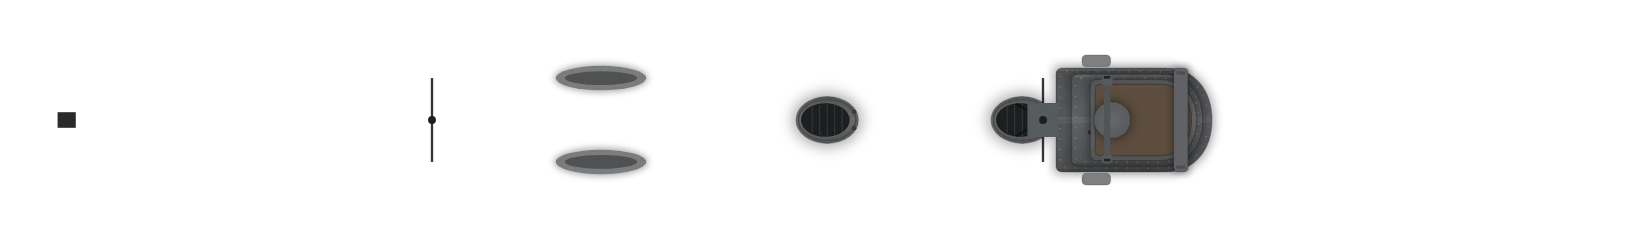
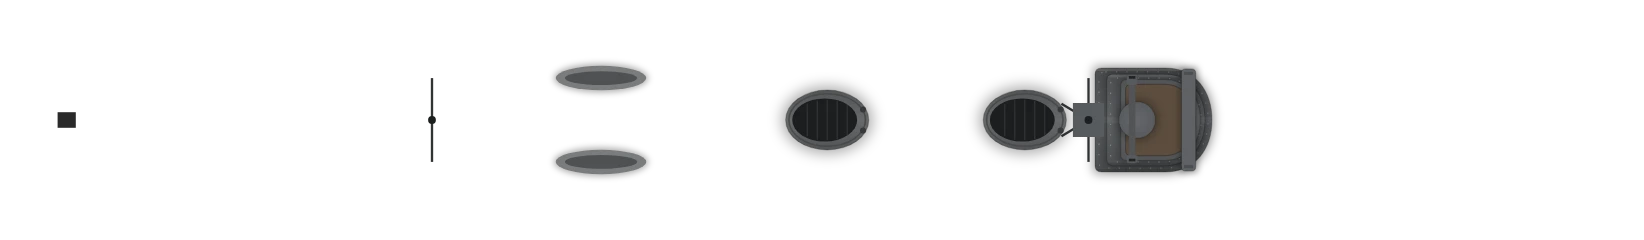
Mount shadows stay joined to their guns (cast no further than half the mount's size); Fletcher's mount 3 and the Narvik's forward after gun face forward, back to back with the raised gun, a director platform between on the Fletcher; the Fubuki's big funnels clear of her bridge and foremast
aux_test, review_test, run_presets, orders_test pass.

Claude-Session: https://claude.ai/code/session_0112riLGm4nSjrgsGiYL5DUG

Changed region(s): [[0.5894, 0.2333, 0.7445, 0.7875], [0.4653, 0.35, 0.5584, 0.6417]]

diff --git a/index.html b/index.html
@@ -291,19 +291,19 @@ const DESIGN_LIST = [
     p: { bow: .34, run: .2, stern: 'c', sup: [[23.5, 10.9, 7.5, 3], [-27, 6, 4.5, 1]], fun: [[2, 3.2, 2]], mast: [[16, 'p']], boats: [[8, 1]] },
     slots: [sl('M', 39, 0, FWD, 'g120t'), sl('M', 32, 0, FWD, 'g120t'), sl('M', -39, 0, AFT, 'g120t'), sl('T', -8, 0, BEAM, 'tor'), sl('T', -19, 0, BEAM, 'tor'), sl('A', -29, 0, AFT, 'aa2p'), ...pair('A', 13, 4.4, 'aa20')] },
   { id: 'dd_fletcher', cls: 'dd', yard: 'tidewater', dn: 'Halberd', model: 'Fletcher-class destroyer', year: 1942, era: 1, L: 114.7, B: 12, t: 2050, kn: 36.5, td: 640, armor: 19, crew: 329, price: 20000,
-    p: { outline: [[57.35, 0.15], [56.27, 0.15], [56.13, 0.25], [55.86, 0.25], [55.39, 0.6], [55.18, 0.6], [54.71, 0.88], [54.44, 0.88], [54.3, 1.33], [54.17, 1.38], [54.1, 1.08], [53.76, 1.15], [53.69, 1.56], [53.15, 1.73], [52.13, 1.72], [51.52, 1.91], [51.46, 2.15], [51.18, 2.21], [51.12, 2.05], [49.83, 2.46], [48.34, 2.73], [42.17, 3.54], [31.4, 4.56], [23.27, 5.13], [15.01, 5.51], [-1.32, 5.87], [-12.91, 6.0], [-23.75, 5.81], [-36.75, 5.24], [-46.71, 4.93], [-51.39, 4.62], [-51.86, 4.39], [-53.83, 4.13], [-54.03, 3.99], [-54.71, 3.85], [-55.59, 3.3], [-55.93, 3.36], [-56.0, 3.23], [-56.47, 3.29], [-56.81, 3.14], [-56.88, 0.15], [-57.35, 0.15]], sup: [[20.5, 9.5, 8, 3], [-27, 17, 7, 1]], fun: [[9, 2.4, 1.8], [-5, 2.4, 1.8]], mast: [[16, 'p']], boats: [[12, 1]] },
-    slots: [sl('M', 36.2, 0, FWD, 'g127s'), sl('M', 28.8, 0, FWD, 'g127s'), sl('M', -24.7, 0, AFT, 'g127s'), sl('M', -30.8, 0, AFT, 'g127s'), sl('M', -38.2, 0, AFT, 'g127s'), sl('T', 2.6, 0, BEAM, 'tor'), sl('T', -10.5, 0, BEAM, 'tor'), ...pair('A', -17, 4.6, 'aa40'), ...pair('A', 23, 4.2, 'aa20')] },
+    p: { outline: [[57.35, 0.15], [56.27, 0.15], [56.13, 0.25], [55.86, 0.25], [55.39, 0.6], [55.18, 0.6], [54.71, 0.88], [54.44, 0.88], [54.3, 1.33], [54.17, 1.38], [54.1, 1.08], [53.76, 1.15], [53.69, 1.56], [53.15, 1.73], [52.13, 1.72], [51.52, 1.91], [51.46, 2.15], [51.18, 2.21], [51.12, 2.05], [49.83, 2.46], [48.34, 2.73], [42.17, 3.54], [31.4, 4.56], [23.27, 5.13], [15.01, 5.51], [-1.32, 5.87], [-12.91, 6.0], [-23.75, 5.81], [-36.75, 5.24], [-46.71, 4.93], [-51.39, 4.62], [-51.86, 4.39], [-53.83, 4.13], [-54.03, 3.99], [-54.71, 3.85], [-55.59, 3.3], [-55.93, 3.36], [-56.0, 3.23], [-56.47, 3.29], [-56.81, 3.14], [-56.88, 0.15], [-57.35, 0.15]], sup: [[20.5, 9.5, 8, 3], [-27, 17, 7, 1], [-26, 4, 4.5, 2]], fun: [[9, 2.4, 1.8], [-5, 2.4, 1.8]], mast: [[16, 'p']], boats: [[12, 1]] },
+    slots: [sl('M', 36.2, 0, FWD, 'g127s'), sl('M', 28.8, 0, FWD, 'g127s'), sl('M', -21, 0, FWD, 'g127s'), sl('M', -31, 0, AFT, 'g127s'), sl('M', -38.2, 0, AFT, 'g127s'), sl('T', 2.6, 0, BEAM, 'tor'), sl('T', -10.5, 0, BEAM, 'tor'), ...pair('A', -16, 5.3, 'aa40'), ...pair('A', 23, 4.2, 'aa20')] },
   { id: 'dd_gearing', cls: 'dd', yard: 'tidewater', dn: 'Partisan', model: 'Gearing-class destroyer', year: 1945, era: 1, L: 119, B: 12.5, t: 2616, kn: 36.8, td: 700, armor: 19, crew: 336, price: 26000,
     p: { bow: .33, run: .2, stern: 'c', sup: [[25.5, 11.9, 8.5, 3], [-30, 8, 5, 1]], fun: [[11, 2.6, 1.9], [-4, 2.6, 1.9]], mast: [[19, 't']], boats: [[3, 1]] },
     slots: [sl('M', 43, 0, FWD, 'g127'), sl('M', 35, 0, FWD, 'g127'), sl('M', -45, 0, AFT, 'g127'), sl('T', 4, 0, BEAM, 'tor'), sl('T', -14, 0, BEAM, 'tor'), ...pair('A', 18, 5.2, 'aa40'), ...pair('A', -24, 5, 'aa40')] },
   { id: 'dd_narvik', cls: 'dd', yard: 'ostsee', dn: 'Sturmvogel', model: 'Type 1936A (Narvik) destroyer', year: 1940, era: 1, L: 127, B: 12, t: 2600, kn: 36, td: 760, armor: 15, crew: 330, price: 24000,
-    p: { outline: [[63.5, 0.62], [62.28, 1.05], [58.64, 2.01], [56.82, 2.6], [53.17, 3.35], [51.75, 3.73], [47.5, 4.33], [46.08, 4.65], [42.23, 5.12], [40.81, 5.11], [39.4, 5.3], [38.38, 5.29], [34.94, 5.61], [30.28, 5.64], [28.86, 5.82], [22.79, 5.79], [21.37, 5.87], [-3.75, 6.0], [-5.17, 5.81], [-12, 6.0], [-40, 6.0], [-52, 5.4], [-58, 4.4], [-61.5, 3.0], [-63.5, 1.2]], sup: [[24, 11, 9, 3], [-41, 9, 6, 1]], fun: [[12.3, 2.6, 2], [-9.4, 2.6, 2]], mast: [[18, 'p']], boats: [[5, 1]] },
-    slots: [sl('M', 37.6, 0, FWD, 'g150t'), sl('M', -35.7, 0, AFT, 'g150s'), sl('M', -45.5, 0, AFT, 'g150s'), sl('M', -55.9, 0, AFT, 'g150s'), sl('T', 1.2, 0, BEAM, 'tor'), sl('T', -24, 0, BEAM, 'tor'), ...pair('A', -16, 4.4, 'aa37'), ...pair('A', 31, 4.6, 'aa20q')] },
+    p: { outline: [[63.5, 0.62], [62.28, 1.05], [58.64, 2.01], [56.82, 2.6], [53.17, 3.35], [51.75, 3.73], [47.5, 4.33], [46.08, 4.65], [42.23, 5.12], [40.81, 5.11], [39.4, 5.3], [38.38, 5.29], [34.94, 5.61], [30.28, 5.64], [28.86, 5.82], [22.79, 5.79], [21.37, 5.87], [-3.75, 6.0], [-5.17, 5.81], [-12, 6.0], [-40, 6.0], [-52, 5.4], [-58, 4.4], [-61.5, 3.0], [-63.5, 1.2]], sup: [[24, 11, 9, 3]], house: [[-45, 9, 6]], fun: [[12.3, 2.6, 2], [-9.4, 2.6, 2]], mast: [[18, 'p']], boats: [[5, 1]] },
+    slots: [sl('M', 37.6, 0, FWD, 'g150t'), sl('M', -35.7, 0, FWD, 'g150s'), sl('M', -46, 0, AFT, 'g150s'), sl('M', -56.5, 0, AFT, 'g150s'), sl('T', 1.2, 0, BEAM, 'tor'), sl('T', -24, 0, BEAM, 'tor'), ...pair('A', -16, 4.4, 'aa37'), ...pair('A', 31, 4.6, 'aa20q')] },
   { id: 'dd_kagero', cls: 'dd', yard: 'seto', dn: 'Kaien', model: 'Kagero-class destroyer', year: 1939, era: 1, L: 118.5, B: 10.8, t: 2033, kn: 35, td: 650, armor: 12, crew: 240, price: 22000,
     p: { outline: [[59.25, 0.34], [58.66, 0.8], [58.0, 1.12], [56.88, 1.5], [55.43, 1.89], [52.6, 2.46], [46.29, 3.42], [38.39, 4.19], [30.1, 4.74], [21.09, 5.1], [10.43, 5.31], [-3.45, 5.4], [-15.56, 5.35], [-26.81, 5.13], [-39.64, 4.7], [-47.14, 4.25], [-51.95, 3.67], [-55.37, 2.99], [-56.88, 2.47], [-58.0, 1.89], [-58.66, 1.37], [-59.25, 0.54]], sup: [[26, 7.5, 7, 3]], fun: [[13.8, 2.4, 1.8], [-2.3, 2.4, 1.8]], mast: [[20, 't'], [-21, 'p']], boats: [[28, 1]], deck: 'lino' },
     slots: [sl('M', 40.8, 0, FWD, 'g127'), sl('M', -27.6, 0, AFT, 'g127'), sl('M', -36.2, 0, AFT, 'g127'), sl('T', 5.3, 0, BEAM, 'tor93'), sl('T', -13.2, 0, BEAM, 'tor93'), ...pair('A', 0.7, 3.2, 'aa25'), ...pair('A', -20, 3.5, 'aa25')] },
   { id: 'dd_fubuki', cls: 'dd', yard: 'seto', dn: 'Fuyuzora', model: 'Fubuki-class destroyer', year: 1928, era: 1, L: 118.4, B: 10.4, t: 1750, kn: 38, td: 640, armor: 0, crew: 219, price: 19000,
-    p: { outline: [[59.2, 0.47], [56.76, 1.16], [53.51, 1.81], [52.37, 2.15], [48.14, 3.05], [45.05, 3.42], [41.15, 4.1], [33.99, 4.9], [32.85, 4.9], [31.71, 5.05], [14.31, 5.07], [13.17, 5.2], [8.62, 5.19], [7.48, 5.03], [4.55, 5.03], [3.42, 5.18], [-2.28, 5.18], [-3.42, 5.06], [-4.88, 5.17], [-13.82, 4.96], [-18.7, 4.96], [-19.84, 4.81], [-22.93, 4.8], [-24.07, 4.65], [-27.49, 4.66], [-28.62, 4.5], [-32.04, 4.5], [-33.18, 4.34], [-35.29, 4.34], [-36.43, 4.19], [-38.22, 4.19], [-39.36, 4.02], [-41.15, 4.02], [-42.29, 3.87], [-43.42, 3.87], [-46.68, 3.55], [-53.18, 2.76], [-53.67, 2.78], [-54.65, 3.12], [-55.78, 2.32], [-57.9, 1.92], [-59.2, 1.18]], sup: [[24, 12, 8, 3]], fun: [[15.4, 2.4, 1.8], [0.4, 2.4, 1.8]], mast: [[17, 't'], [-30, 'p']], boats: [[-17, 1]], deck: 'lino' },
+    p: { outline: [[59.2, 0.47], [56.76, 1.16], [53.51, 1.81], [52.37, 2.15], [48.14, 3.05], [45.05, 3.42], [41.15, 4.1], [33.99, 4.9], [32.85, 4.9], [31.71, 5.05], [14.31, 5.07], [13.17, 5.2], [8.62, 5.19], [7.48, 5.03], [4.55, 5.03], [3.42, 5.18], [-2.28, 5.18], [-3.42, 5.06], [-4.88, 5.17], [-13.82, 4.96], [-18.7, 4.96], [-19.84, 4.81], [-22.93, 4.8], [-24.07, 4.65], [-27.49, 4.66], [-28.62, 4.5], [-32.04, 4.5], [-33.18, 4.34], [-35.29, 4.34], [-36.43, 4.19], [-38.22, 4.19], [-39.36, 4.02], [-41.15, 4.02], [-42.29, 3.87], [-43.42, 3.87], [-46.68, 3.55], [-53.18, 2.76], [-53.67, 2.78], [-54.65, 3.12], [-55.78, 2.32], [-57.9, 1.92], [-59.2, 1.18]], sup: [[25.5, 9, 8, 3]], fun: [[15.6, 3.2, 2.3], [0.4, 3.2, 2.3]], mast: [[20.5, 't'], [-30, 'p']], boats: [[-17, 1]], deck: 'lino' },
     slots: [sl('M', 39.4, 0, FWD, 'g127'), sl('M', -35.4, 0, AFT, 'g127'), sl('M', -44.3, 0, AFT, 'g127'), sl('T', 9.8, 0, BEAM, 'tor'), sl('T', -10.2, 0, BEAM, 'tor'), sl('T', -24.8, 0, BEAM, 'tor'), ...pair('A', -4, 3.4, 'aa25')] },
   { id: 'dd_soldati', cls: 'dd', yard: 'tirreno', dn: 'Vespro', model: 'Soldati-class destroyer', year: 1938, era: 1, L: 106.7, B: 10.15, t: 1830, kn: 38, td: 600, armor: 10, crew: 206, price: 18000,
     p: { bow: .36, run: .2, stern: 'c', sup: [[23, 11, 7, 3], [-28, 6, 4.5, 1]], fun: [[6, 3.4, 2.1]], mast: [[15, 'p']], boats: [[-4, 1]] },

diff --git a/src/game.html b/src/game.html
@@ -288,19 +288,19 @@ const DESIGN_LIST = [
     p: { bow: .34, run: .2, stern: 'c', sup: [[23.5, 10.9, 7.5, 3], [-27, 6, 4.5, 1]], fun: [[2, 3.2, 2]], mast: [[16, 'p']], boats: [[8, 1]] },
     slots: [sl('M', 39, 0, FWD, 'g120t'), sl('M', 32, 0, FWD, 'g120t'), sl('M', -39, 0, AFT, 'g120t'), sl('T', -8, 0, BEAM, 'tor'), sl('T', -19, 0, BEAM, 'tor'), sl('A', -29, 0, AFT, 'aa2p'), ...pair('A', 13, 4.4, 'aa20')] },
   { id: 'dd_fletcher', cls: 'dd', yard: 'tidewater', dn: 'Halberd', model: 'Fletcher-class destroyer', year: 1942, era: 1, L: 114.7, B: 12, t: 2050, kn: 36.5, td: 640, armor: 19, crew: 329, price: 20000,
-    p: { outline: [[57.35, 0.15], [56.27, 0.15], [56.13, 0.25], [55.86, 0.25], [55.39, 0.6], [55.18, 0.6], [54.71, 0.88], [54.44, 0.88], [54.3, 1.33], [54.17, 1.38], [54.1, 1.08], [53.76, 1.15], [53.69, 1.56], [53.15, 1.73], [52.13, 1.72], [51.52, 1.91], [51.46, 2.15], [51.18, 2.21], [51.12, 2.05], [49.83, 2.46], [48.34, 2.73], [42.17, 3.54], [31.4, 4.56], [23.27, 5.13], [15.01, 5.51], [-1.32, 5.87], [-12.91, 6.0], [-23.75, 5.81], [-36.75, 5.24], [-46.71, 4.93], [-51.39, 4.62], [-51.86, 4.39], [-53.83, 4.13], [-54.03, 3.99], [-54.71, 3.85], [-55.59, 3.3], [-55.93, 3.36], [-56.0, 3.23], [-56.47, 3.29], [-56.81, 3.14], [-56.88, 0.15], [-57.35, 0.15]], sup: [[20.5, 9.5, 8, 3], [-27, 17, 7, 1]], fun: [[9, 2.4, 1.8], [-5, 2.4, 1.8]], mast: [[16, 'p']], boats: [[12, 1]] },
-    slots: [sl('M', 36.2, 0, FWD, 'g127s'), sl('M', 28.8, 0, FWD, 'g127s'), sl('M', -24.7, 0, AFT, 'g127s'), sl('M', -30.8, 0, AFT, 'g127s'), sl('M', -38.2, 0, AFT, 'g127s'), sl('T', 2.6, 0, BEAM, 'tor'), sl('T', -10.5, 0, BEAM, 'tor'), ...pair('A', -17, 4.6, 'aa40'), ...pair('A', 23, 4.2, 'aa20')] },
+    p: { outline: [[57.35, 0.15], [56.27, 0.15], [56.13, 0.25], [55.86, 0.25], [55.39, 0.6], [55.18, 0.6], [54.71, 0.88], [54.44, 0.88], [54.3, 1.33], [54.17, 1.38], [54.1, 1.08], [53.76, 1.15], [53.69, 1.56], [53.15, 1.73], [52.13, 1.72], [51.52, 1.91], [51.46, 2.15], [51.18, 2.21], [51.12, 2.05], [49.83, 2.46], [48.34, 2.73], [42.17, 3.54], [31.4, 4.56], [23.27, 5.13], [15.01, 5.51], [-1.32, 5.87], [-12.91, 6.0], [-23.75, 5.81], [-36.75, 5.24], [-46.71, 4.93], [-51.39, 4.62], [-51.86, 4.39], [-53.83, 4.13], [-54.03, 3.99], [-54.71, 3.85], [-55.59, 3.3], [-55.93, 3.36], [-56.0, 3.23], [-56.47, 3.29], [-56.81, 3.14], [-56.88, 0.15], [-57.35, 0.15]], sup: [[20.5, 9.5, 8, 3], [-27, 17, 7, 1], [-26, 4, 4.5, 2]], fun: [[9, 2.4, 1.8], [-5, 2.4, 1.8]], mast: [[16, 'p']], boats: [[12, 1]] },
+    slots: [sl('M', 36.2, 0, FWD, 'g127s'), sl('M', 28.8, 0, FWD, 'g127s'), sl('M', -21, 0, FWD, 'g127s'), sl('M', -31, 0, AFT, 'g127s'), sl('M', -38.2, 0, AFT, 'g127s'), sl('T', 2.6, 0, BEAM, 'tor'), sl('T', -10.5, 0, BEAM, 'tor'), ...pair('A', -16, 5.3, 'aa40'), ...pair('A', 23, 4.2, 'aa20')] },
   { id: 'dd_gearing', cls: 'dd', yard: 'tidewater', dn: 'Partisan', model: 'Gearing-class destroyer', year: 1945, era: 1, L: 119, B: 12.5, t: 2616, kn: 36.8, td: 700, armor: 19, crew: 336, price: 26000,
     p: { bow: .33, run: .2, stern: 'c', sup: [[25.5, 11.9, 8.5, 3], [-30, 8, 5, 1]], fun: [[11, 2.6, 1.9], [-4, 2.6, 1.9]], mast: [[19, 't']], boats: [[3, 1]] },
     slots: [sl('M', 43, 0, FWD, 'g127'), sl('M', 35, 0, FWD, 'g127'), sl('M', -45, 0, AFT, 'g127'), sl('T', 4, 0, BEAM, 'tor'), sl('T', -14, 0, BEAM, 'tor'), ...pair('A', 18, 5.2, 'aa40'), ...pair('A', -24, 5, 'aa40')] },
   { id: 'dd_narvik', cls: 'dd', yard: 'ostsee', dn: 'Sturmvogel', model: 'Type 1936A (Narvik) destroyer', year: 1940, era: 1, L: 127, B: 12, t: 2600, kn: 36, td: 760, armor: 15, crew: 330, price: 24000,
-    p: { outline: [[63.5, 0.62], [62.28, 1.05], [58.64, 2.01], [56.82, 2.6], [53.17, 3.35], [51.75, 3.73], [47.5, 4.33], [46.08, 4.65], [42.23, 5.12], [40.81, 5.11], [39.4, 5.3], [38.38, 5.29], [34.94, 5.61], [30.28, 5.64], [28.86, 5.82], [22.79, 5.79], [21.37, 5.87], [-3.75, 6.0], [-5.17, 5.81], [-12, 6.0], [-40, 6.0], [-52, 5.4], [-58, 4.4], [-61.5, 3.0], [-63.5, 1.2]], sup: [[24, 11, 9, 3], [-41, 9, 6, 1]], fun: [[12.3, 2.6, 2], [-9.4, 2.6, 2]], mast: [[18, 'p']], boats: [[5, 1]] },
-    slots: [sl('M', 37.6, 0, FWD, 'g150t'), sl('M', -35.7, 0, AFT, 'g150s'), sl('M', -45.5, 0, AFT, 'g150s'), sl('M', -55.9, 0, AFT, 'g150s'), sl('T', 1.2, 0, BEAM, 'tor'), sl('T', -24, 0, BEAM, 'tor'), ...pair('A', -16, 4.4, 'aa37'), ...pair('A', 31, 4.6, 'aa20q')] },
+    p: { outline: [[63.5, 0.62], [62.28, 1.05], [58.64, 2.01], [56.82, 2.6], [53.17, 3.35], [51.75, 3.73], [47.5, 4.33], [46.08, 4.65], [42.23, 5.12], [40.81, 5.11], [39.4, 5.3], [38.38, 5.29], [34.94, 5.61], [30.28, 5.64], [28.86, 5.82], [22.79, 5.79], [21.37, 5.87], [-3.75, 6.0], [-5.17, 5.81], [-12, 6.0], [-40, 6.0], [-52, 5.4], [-58, 4.4], [-61.5, 3.0], [-63.5, 1.2]], sup: [[24, 11, 9, 3]], house: [[-45, 9, 6]], fun: [[12.3, 2.6, 2], [-9.4, 2.6, 2]], mast: [[18, 'p']], boats: [[5, 1]] },
+    slots: [sl('M', 37.6, 0, FWD, 'g150t'), sl('M', -35.7, 0, FWD, 'g150s'), sl('M', -46, 0, AFT, 'g150s'), sl('M', -56.5, 0, AFT, 'g150s'), sl('T', 1.2, 0, BEAM, 'tor'), sl('T', -24, 0, BEAM, 'tor'), ...pair('A', -16, 4.4, 'aa37'), ...pair('A', 31, 4.6, 'aa20q')] },
   { id: 'dd_kagero', cls: 'dd', yard: 'seto', dn: 'Kaien', model: 'Kagero-class destroyer', year: 1939, era: 1, L: 118.5, B: 10.8, t: 2033, kn: 35, td: 650, armor: 12, crew: 240, price: 22000,
     p: { outline: [[59.25, 0.34], [58.66, 0.8], [58.0, 1.12], [56.88, 1.5], [55.43, 1.89], [52.6, 2.46], [46.29, 3.42], [38.39, 4.19], [30.1, 4.74], [21.09, 5.1], [10.43, 5.31], [-3.45, 5.4], [-15.56, 5.35], [-26.81, 5.13], [-39.64, 4.7], [-47.14, 4.25], [-51.95, 3.67], [-55.37, 2.99], [-56.88, 2.47], [-58.0, 1.89], [-58.66, 1.37], [-59.25, 0.54]], sup: [[26, 7.5, 7, 3]], fun: [[13.8, 2.4, 1.8], [-2.3, 2.4, 1.8]], mast: [[20, 't'], [-21, 'p']], boats: [[28, 1]], deck: 'lino' },
     slots: [sl('M', 40.8, 0, FWD, 'g127'), sl('M', -27.6, 0, AFT, 'g127'), sl('M', -36.2, 0, AFT, 'g127'), sl('T', 5.3, 0, BEAM, 'tor93'), sl('T', -13.2, 0, BEAM, 'tor93'), ...pair('A', 0.7, 3.2, 'aa25'), ...pair('A', -20, 3.5, 'aa25')] },
   { id: 'dd_fubuki', cls: 'dd', yard: 'seto', dn: 'Fuyuzora', model: 'Fubuki-class destroyer', year: 1928, era: 1, L: 118.4, B: 10.4, t: 1750, kn: 38, td: 640, armor: 0, crew: 219, price: 19000,
-    p: { outline: [[59.2, 0.47], [56.76, 1.16], [53.51, 1.81], [52.37, 2.15], [48.14, 3.05], [45.05, 3.42], [41.15, 4.1], [33.99, 4.9], [32.85, 4.9], [31.71, 5.05], [14.31, 5.07], [13.17, 5.2], [8.62, 5.19], [7.48, 5.03], [4.55, 5.03], [3.42, 5.18], [-2.28, 5.18], [-3.42, 5.06], [-4.88, 5.17], [-13.82, 4.96], [-18.7, 4.96], [-19.84, 4.81], [-22.93, 4.8], [-24.07, 4.65], [-27.49, 4.66], [-28.62, 4.5], [-32.04, 4.5], [-33.18, 4.34], [-35.29, 4.34], [-36.43, 4.19], [-38.22, 4.19], [-39.36, 4.02], [-41.15, 4.02], [-42.29, 3.87], [-43.42, 3.87], [-46.68, 3.55], [-53.18, 2.76], [-53.67, 2.78], [-54.65, 3.12], [-55.78, 2.32], [-57.9, 1.92], [-59.2, 1.18]], sup: [[24, 12, 8, 3]], fun: [[15.4, 2.4, 1.8], [0.4, 2.4, 1.8]], mast: [[17, 't'], [-30, 'p']], boats: [[-17, 1]], deck: 'lino' },
+    p: { outline: [[59.2, 0.47], [56.76, 1.16], [53.51, 1.81], [52.37, 2.15], [48.14, 3.05], [45.05, 3.42], [41.15, 4.1], [33.99, 4.9], [32.85, 4.9], [31.71, 5.05], [14.31, 5.07], [13.17, 5.2], [8.62, 5.19], [7.48, 5.03], [4.55, 5.03], [3.42, 5.18], [-2.28, 5.18], [-3.42, 5.06], [-4.88, 5.17], [-13.82, 4.96], [-18.7, 4.96], [-19.84, 4.81], [-22.93, 4.8], [-24.07, 4.65], [-27.49, 4.66], [-28.62, 4.5], [-32.04, 4.5], [-33.18, 4.34], [-35.29, 4.34], [-36.43, 4.19], [-38.22, 4.19], [-39.36, 4.02], [-41.15, 4.02], [-42.29, 3.87], [-43.42, 3.87], [-46.68, 3.55], [-53.18, 2.76], [-53.67, 2.78], [-54.65, 3.12], [-55.78, 2.32], [-57.9, 1.92], [-59.2, 1.18]], sup: [[25.5, 9, 8, 3]], fun: [[15.6, 3.2, 2.3], [0.4, 3.2, 2.3]], mast: [[20.5, 't'], [-30, 'p']], boats: [[-17, 1]], deck: 'lino' },
     slots: [sl('M', 39.4, 0, FWD, 'g127'), sl('M', -35.4, 0, AFT, 'g127'), sl('M', -44.3, 0, AFT, 'g127'), sl('T', 9.8, 0, BEAM, 'tor'), sl('T', -10.2, 0, BEAM, 'tor'), sl('T', -24.8, 0, BEAM, 'tor'), ...pair('A', -4, 3.4, 'aa25')] },
   { id: 'dd_soldati', cls: 'dd', yard: 'tirreno', dn: 'Vespro', model: 'Soldati-class destroyer', year: 1938, era: 1, L: 106.7, B: 10.15, t: 1830, kn: 38, td: 600, armor: 10, crew: 206, price: 18000,
     p: { bow: .36, run: .2, stern: 'c', sup: [[23, 11, 7, 3], [-28, 6, 4.5, 1]], fun: [[6, 3.4, 2.1]], mast: [[15, 'p']], boats: [[-4, 1]] },

diff --git a/docs/AGENT_NOTES.md b/docs/AGENT_NOTES.md
@@ -101,3 +101,4 @@
 - **Bake warning**: `MOUNTS=` without `ONLY=` (or with an empty ONLY) runs a full bake and rewrites `sprites.json`'s mount list with only the named mounts: every other gun loses its picture. Always pass `ONLY=` with `MOUNTS=`. review_test now checks that every weapon a design carries has its mount picture (launch cells excepted).
 - **Guns drawn as they looked** (the owner, 14 Nov 2026; free refits kept): a weapon's `look` picks its own drawing in `drawMount` (`src/game.html`). `round` is a round enclosed shield (`drawRoundShield`): the Type 89 12.7 cm twin HA (`g127j`, 12 rounds a minute a barrel, rel 5), carried by the Yamato, Takao, Shokaku and Ryujo in place of the American 5-inch twin. A new look for another historical mount goes the same way: a weapon entry with its real rate, `TONS`, the drawing, then `ONLY=<designs> MOUNTS=<wid>` to bake (never MOUNTS without ONLY).
 - **Destroyers from the owner's plans** (14 Nov 2026): the Fletcher (plan of DD-445), Kagero, Fubuki (ONI, Dec 1942) and Narvik (ONI 204, Aug 1942): traced hulls (the Narvik's forward half traced, her full beam carried aft: the plate's light after deck read narrow), guns, torpedo mounts, funnels, bridges and masts placed as drawn. Their speed, displacement, guns and tubes already matched the real ships. The first plan he sent as a Gearing is a Benson/Gleaves (four single 5-inch, one quintuple tube): the Gearing still waits for her plan.
+- **Mount shadows** (`battle.gd` `MountLayer`): the cast shadow is moved no further from its foot than half the mount's own size, so a small gun's shadow stays joined to it (the owner, 14 Nov 2026: destroyers' guns looked to float). The Fletcher's mount 3 faces forward, back to back with mount 4 across the 40 mm director platform; the Narvik's forward after gun likewise; the Fubuki's funnels are her big trunked ones with the foremast ahead of the forward one.
